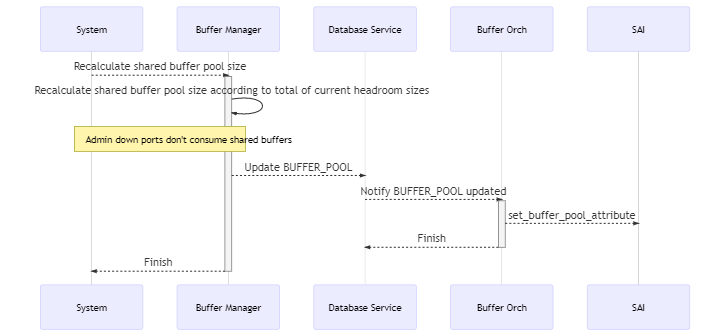
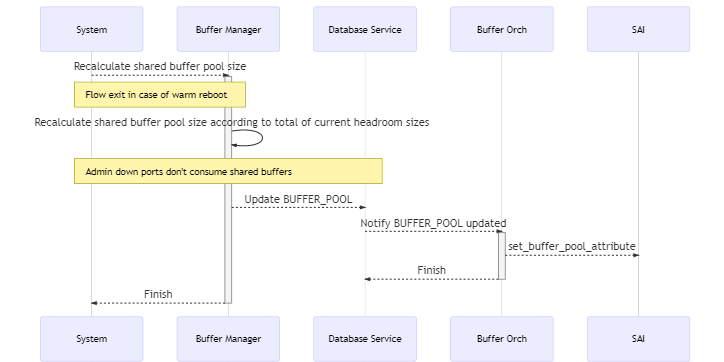
[qos]Address review comments

diff --git a/doc/qos/new-headroom-calculation.md b/doc/qos/new-headroom-calculation.md
@@ -97,36 +97,75 @@ The key can be the chip/vendor name in captical letters.
 
 ##### Initialization
 
-Every vendor should provide the ASIC_TABLE on a per-SKU basis. It should be stored in `/usr/shared/sonic/device/<platfrom>/<SKU>/buffers.json.j2` on the switch.
+Every vendor should provide the ASIC_TABLE for all switch chips it supports in SONiC. It should be stored in `files/build_templates` in the [sonic-buildimage](https://github.com/azure/sonic-buildimage) repo and `/usr/shared/sonic/template/asic_config.json.j2` on the switch.
 
-When the system starts for the first time, it generates the configuration by reloading minigraph in which buffer management related tables will be initialized by `config qos reload` via rendering this template. After that the table will be loaded from config database each time system starts.
+There should be a map from SKU to switch chip in the template. When the template is being rendering, the SKU will be mapped to switch chip and the switch chip is used to choose which group of parameters in the `ASIC_TABLE` will be adopted on the switch. As a result, the `ASIC_TABLE` with a single group of parameters will be loaded into config database.
 
-When reloading minigraph, all data from this table will be cleared and then reinitialized by `config qos reload`.
+The rendering takes place on the switch when the command `config qos reload` is executed when the switch starts for the first time or `config load_minigraph` is executed.
 
-It's possible that multiple SKUs share the same switch chip thus the same set of parameters. In this case, proper vendor-specific steps should be taken to reduce redundant source files.
-
-For Mellanox, this file is only in one of all the SKUs sharing the same switch chip while all other SKUs having symbol links pointing to that file. For example, for switches based on Spectrum 1 switch chip, `buffers.json.j2` is defined in `sonic-buildimage/device/mellanox/x86_64-mlnx_msn2700-r0/` while all other SKUs based on the same chip having symbol links pointing to it.
+After that the table will be loaded from config database each time system starts.
 
 ***Example***
 
 The below is an example for Mellanox switches based on Spectrum-1 switch chip.
 
-Demostration of a way to reduce redundant source files.
+Example of pre-defined json.j2 file:
 
-```shell
-stephens@0348aa35bcb1:/sonic$ ls device/mellanox/x86_64-mlnx_msn2700-r0/ACS-MSN2700/buffers_defaults_t* -l
--rw-r--r-- 1 stephens input 3196 Feb 29 01:48 device/mellanox/x86_64-mlnx_msn2700-r0/ACS-MSN2700/buffers_defaults_t0.j2
--rw-r--r-- 1 stephens input 3196 Feb 29 01:48 device/mellanox/x86_64-mlnx_msn2700-r0/ACS-MSN2700/buffers_defaults_t1.j2
-stephens@0348aa35bcb1:/sonic$ ls device/mellanox/x86_64-mlnx_msn2410-r0/ACS-MSN2410/buffers_defaults_t* -l
-lrwxrwxrwx 1 stephens input 63 Feb 29 01:48 device/mellanox/x86_64-mlnx_msn2410-r0/ACS-MSN2410/buffers_defaults_t0.j2 -> ../../x86_64-mlnx_msn2700-r0/ACS-MSN2700/buffers_defaults_t0.j2
-lrwxrwxrwx 1 stephens input 63 Feb 29 01:48 device/mellanox/x86_64-mlnx_msn2410-r0/ACS-MSN2410/buffers_defaults_t1.j2 -> ../../x86_64-mlnx_msn2700-r0/ACS-MSN2700/buffers_defaults_t1.j2
+```json
+{% if sonic_asic_platform == 'mellanox' %}
+    {% set platform2asic = {
+            'x86_64-mlnx_lssn2700-r0':'MELLANOX-SPECTRUM'
+            'x86_64-mlnx_msn2010-r0':'MELLANOX-SPECTRUM'
+            'x86_64-mlnx_msn2100-r0':'MELLANOX-SPECTRUM'
+            'x86_64-mlnx_msn2410-r0':'MELLANOX-SPECTRUM'
+            'x86_64-mlnx_msn2700-r0':'MELLANOX-SPECTRUM'
+            'x86_64-mlnx_msn2700_simx-r0':'MELLANOX-SPECTRUM'
+            'x86_64-mlnx_msn2740-r0':'MELLANOX-SPECTRUM'
+            'x86_64-mlnx_msn3700c-r0':'MELLANOX-SPECTRUM-2'
+            'x86_64-mlnx_msn3700-r0':'MELLANOX-SPECTRUM-2'
+            'x86_64-mlnx_msn3700_simx-r0':'MELLANOX-SPECTRUM-2'
+            'x86_64-mlnx_msn3800-r0':'MELLANOX-SPECTRUM-2'
+            'x86_64-mlnx_msn4700_simx-r0':'MELLANOX-SPECTRUM-3'
+            'x86_64-mlnx_msn4700-r0':'MELLANOX-SPECTRUM-3'
+        }
+    %}
+    {% set asic_type = platform2asic[platform] %}
+    "ASIC_TABLE": {
+        {% if asic_type == 'MELLANOX-SPECTRUM' %}
+        "MELLANOX-SPECTRUM": {
+            "cell_size": "96",
+            "pipeline_latency": "18",
+            "mac_phy_delay": "0.8",
+            "peer_response_time": "3.8"
+        }
+        {% endif %}
+
+        {% if asic_type == 'MELLANOX-SPECTRUM-2' %}
+        "MELLANOX-SPECTRUM-2": {
+            "cell_size": "144",
+            "pipeline_latency": "18",
+            "mac_phy_delay": "0.8",
+            "peer_response_time": "3.8"
+        }
+        {% endif %}
+
+        {% if asic_type == 'MELLANOX-SPECTRUM-3' %}
+        "MELLANOX-SPECTRUM-3": {
+            "cell_size": "144",
+            "pipeline_latency": "18",
+            "mac_phy_delay": "0.8",
+            "peer_response_time": "3.8"
+        }
+        {% endif %}
+    }
+{% endif %}
 ```
 
-Example of pre-defined json file:
+Example of a rendered json snippet (which will be loaded into config database) on a Mellanox Spectrum switch:
 
 ```json
     "ASIC_TABLE": {
-        "MELLANOX": {
+        "MELLANOX-SPECTRUM": {
             "cell_size": "96",
             "pipeline_latency": "18",
             "mac_phy_delay": "0.8",
@@ -150,26 +189,34 @@ This table is not supposed to be updated on-the-fly.
 
 ##### Initialization
 
-Every vendor should provide the PERIPHERAL_TABLE on a per-SKU basis. It should be stored in `/usr/shared/sonic/device/<platfrom>/<SKU>/buffers.json.j2` on the switch.
+Every vendor should provide the `PERIPHERAL_TABLE` for all peripheral devices it supports in SONiC, like gearbox models. It should be stored in `files/build_templates/peripheral_config.json.j2` in the [sonic-buildimage](https://github.com/azure/sonic-buildimage) repo and `/usr/shared/sonic/template/peripheral_config.json.j2` on the switch.
 
-It's possible that multiple SKUs share the same model of gearbox. In this case similar steps as that for ASIC_TABLE should be taken to reduce redundant source files.
+When the template is being rendering, all entries in `PERIPHERAL_TABLE` will be loaded into the configuration database.
 
-Basically the initialization of PERIPHERAL table is the same as that of ASIC_TABLE except that it's possible a same SKU adopts variant models of gearbox in variant batch of products. In this case, parameters for all possible gearbox models should be listed in the `buffers.json.j2` file and we suggest to find out the correct gearbox_delay in the following way:
+For non-chassis systems, the gearbox model should be determined by the SKU, which is the same as that of `ASIC_TABLE`. As a result, the initialization of `PERIPHERAL_TABLE` is the same as that of `ASIC_TABLE`.
 
-1. The gearbox model equipped in the switch should be exposed and able to be read via sysfs or something like that.
-2. When the system starts for the first time or executed `config load_minigraph` or `config qos reload`, it should read the gearbox model in the way mentioned in 1. and then load the data into config database.
-3. For the other cases when system starts, it loads the data from `CONFIG_DB`.
+For chassis systems the gearbox in variant line-cards can differ, which means a mapping from port/line-card to gearbox model is required to get the correct gearbox model for a port. This requires additional field defined in `PORT` table or some newly introduced table. As this part hasn't been defined in community, we will not discuss this case for now.
 
 The below is an example for Mellanox switches.
 
 ***Example***
 
 ```json
+{% if sonic_asic_platform == 'mellanox' %}
+    {% set platform_with_gearbox = ['x86_64-mlnx_msn3800-r0'] %}
+    {% set platform2gearbox = {
+            'x86_64-mlnx_msn3800-r0':'MELLANOX-PERIPHERAL-1'
+        }
+    %}
+    {% if platform in platform_with_gearbox %}
+    {% set gearbox_type = platform2gearbox[platform] %}
     "PERIPHERAL_TABLE": {
-        "MELLANOX": {
+        "MELLANOX-PERIPHERAL-1": {
             "gearbox_delay": "9.765"
         }
     }
+    {% endif %}
+{% endif %}
 ```
 
 #### Table ROCE_TABLE
@@ -343,10 +390,10 @@ The values used in the above procedure are fetched from the following table:
 
 - `cable length`: CABLE_LENGTH|\<name\>|\<port\>
 - `port speed`: PORT|\<port name\>|speed
-- `kb on gearbox`: PERIPHERIAL_TABLE|\<vendor name\>|other_delay
-- `mac/phy delay`: ASIC_TABLE|\<vendor name\>|mac_phy_delay
-- `peer response`: ASIC_TABLE|\<vendor name\>|peer_response_time
-- `cell`: ASIC_TABLE|\<vendor name\>|cell_size
+- `kb on gearbox`: PERIPHERIAL_TABLE|\<gearbox name\>|other_delay
+- `mac/phy delay`: ASIC_TABLE|\<asic name\>|mac_phy_delay
+- `peer response`: ASIC_TABLE|\<asic name\>|peer_response_time
+- `cell`: ASIC_TABLE|\<asic name\>|cell_size
 - `small packet percentage`: ROCE_TABLE|\<name\>|small_packet_percentage
 - `mtu`: ROCE_TABLE|\<name\>|mtu
 
@@ -366,6 +413,8 @@ __Figure 1: Allocate a New Profile__
 
 #### Release a no-longer-referenced profile
 
+This is for dynamic profile only. Static profile won't be removed even it isn't referenced any more.
+
 When a port's `cable length` or `speed` updated, the profile related to the old `cable length` or `speed` tuple probably won't be referenced any longer. In this case, the profile should be removed.
 
 ![Flow](headroom-calculation-images/release-profile.png "Figure 1: Release a No-Longer-Referenced Profile")
@@ -377,6 +426,10 @@ __Figure 1: Release a No-Longer-Referenced Profile__
 When any port's `cable length` or `speed` updated or `admin state` changed, the buffer pool size should be recalculated.
 
 Each time the buffer pool size recalculated, it should go over headroom of all `port`, `priority group` tuple to calculate the total consumption of shared buffers. The administratively down port doesn't consume buffer hense they should be ruled out.
+
+An exception is warm reboot. During warm reboot the headroom is updated for each ports, which causes the buffer pool be updated for many times. However, the correct buffer pool data that it will eventually be has already been in switch chip. In this sense, to update buffer pool frequently is unnecessary and should be avoided.
+
+To achieve that, the buffer pool shouldn't be updated during warm reboot and will be updated once warm reboot finished.
 
 ![Flow](headroom-calculation-images/calculate-pool-size.png "Figure 1: Calculate the Pool Size")
 
@@ -397,17 +450,6 @@ When any port's `cable length` or `speed` updated, the headroom buffer should be
 __Figure 1: Calculate the Headroom For a Port, PG__
 
 ### Main Flows
-
-#### System starts
-
-Try the following steps in order:
-
-1. Load the table `ASIC_TABLE`, `PERIPHERAL_TABLE` and `ROCE_TABLE` into internal data structures:
-    - If succeeded, set `calculate` flag. Finish.
-    - Otherwise, try 2.
-2. If failed, load the traditional pg_profile_lookup.ini into a lookup table.
-    - If succeeded, set `lookup` flag.
-    - Otherwise, fail the daemon.
 
 #### Port Speed updated
 
@@ -473,26 +515,46 @@ When a static buffer profile is updated, it will be propagated to `Buffer Orch` 
 
 ![Flow](headroom-calculation-images/static-profile-updated.png "Figure 1: Static Buffer Profile Updated")
 
-### Upgrade flows
+### Start and upgrade flows
 
-In this section we will discuss the flows of upgrading the switch from current implementation to the new one by:
+In this section we will discuss the start flow and the flows of upgrading the switch from current implementation to the new one by:
 
 - Cold reboot
 - Warm reboot
 
-#### Cold reboot
+#### Upgrade by cold reboot
 
-When system cold reboot from current implementation to new one, `db_migrator` will take care of new table generating.
+When system cold reboot from current implementation to new one, `db_migrator` will take care of generating new table and converting old data.
+
+1. Initialize `ASIC_TABLE`, `PERIPHERAL_TABLE` and `ROCE_TABLE` from predefined templates into config database, just like what is done when the system starts for the first time or `config load_minigraph`
+2. Convert the current data in `BUFFER_PROFILE` and `BUFFER_PG` into new format with `type` inserted via the following logic:
+
+    - If a `BUFFER_PROFILE` has name convention of `pg_lossless_<speed>_<length>_profile`, it will be treated as a dynamically generated profile based on the port's speed and cable length. In this case its `type` will be initialized as `dynamic`.
+    - If a `BUFFER_PG` references a profile whose type is `dynamic`, it will be also treated as a dynamic buffer pg object and its `type` will be initialized as `dynamic`.
+    - If a `BUFFER_PROFILE` or `BUFFER_PG` item doesn't meet any of the above conditions, it will be treated as a `static` profile.
+
+After that, `Buffer Manager` will start as normal flow which will be described in the next section.
+
+#### Daemon starts with -c option
+
+When the daemon starts, it will:
+
+1. Test the command line options. If `-c` option is provided, the class for new buffer calculation will be instantiated. Otherwise it should be the current approach of calculating headroom buffers, which is out of the scope of this design.
+2. Load table `ASIC_TABLE`, `PERIPHERAL_TABLE` and `ROCE_TABLE` from `CONFIG_DB` into internal data structures.
+3. Load table `CABLE_LENGTH` and `PORT` from `CONFIG_DB` into internal data structures.
+4. After that it will handle items in `CALBLE_LENGTH` and `PORT` tables via calculating the headroom size for the ports and then pushing result into `BUFFER_PROFILE` and `BUFFER_PG` tables except the `port` and `priority group` tuples configured headroom override.
+
+`BUFFER_PROFILE` and `BUFFER_PG` are tables in `CONFIG_DB` which survives reboot, which means the result calculated by previous boot is already in `CONFIG_DB`. By doing so the buffer profile for each `port` and `priority group` won't be changed across reboot.
 
 #### Warm reboot
 
-When system starts, the port's headroom will always be recalculated according to its speed and cable length. As a result, when system warm restarts between images whose headroom size differs, the `Buffer Manager` won't read data from `BUFFER_PG` table but regenerate one for each `port`, `priority group` according to the port's `speed` and `cable length` and then push the item into `BUFFER_PG` table.
+When system starts, the port's headroom will always be recalculated according to its speed and cable length. As a result, when system warm restarts between images who calculate headroom size in different ways, the `Buffer Manager` will eventually regenerate items for each `port`, `priority group` according to the ports' `speed` and `cable length` and then push the item into `BUFFER_PG` table.
 
 During the warm reboot the static configuration like ports' `speed` and `cable length` are not supposed to be changed, which means the data in `BUFFER_PG` and `BUFFER_PROFILE` are not changed before and after warm reboot.
 
 In this sense, no specific steps is required regarding configuration migration for the above tables.
 
-For table `BUFFER_POOL` things will differ. Each time the headroom size updated the buffer pool size should be updated accordingly. When the system warm reboots, the headroom size of each port will be updated in order, which means the buffer pool size will be updated for many times, which should be avoided as the correct value has already been in the switch chip.
+For table `BUFFER_POOL` things will differ. Each time the headroom size updated the buffer pool size should be updated accordingly. When the system warm reboots, the headroom size of each port will be updated as well, which means the buffer pool size will be updated for many times even though the value they eventually should be have already been in the switch chip. This should be avoided as the correct value has already been in the switch chip.
 
 This can be achieved by checking whether the warm reboot is finished ahead of calling SAI api.
 
@@ -507,7 +569,6 @@ sonic#config interface headroom_override <port> <enable|disable> <profile>
 The following conditions among parameters must be satisfied:
 
 - The profile must be defined in advance.
-- 
 
 ### To configure a static profile
 
@@ -518,11 +579,12 @@ sonic#config buffer_profile <name> add <xon> <xoff> <headroom> <dynamic_th>
 sonic#config buffer_profile <name> del
 ```
 
-Among all the parameters, `xoff` is optional and all others are mandatory.
+Among all the parameters, for `xoff` and `headroom`, if one is provided, the other one will be optional and conducted via the formula `xon + xoff = headroom`.
+All other parameters are mandatory.
 The following conditions among parameters must be satisfied:
 
 - `xon` + `xoff` < `headroom`; For Mellanox platform xon + xoff == headroom
-- When delete a profile, its `type` must be static.
+- When delete a profile, its `type` must be static and isn't referenced by any port
 
 ## Open questions
 
@@ -534,49 +596,27 @@ The following conditions among parameters must be satisfied:
         - If yes, need to maintain a reference number for the profiles, which introduces unnecessary complexity.
 
     Status: Closed.
+
     Decision: We're going to support arbitrary cable length.
 2. After port cable length updated, should the BUFFER_PG table be updated as well?
     - Current implementation don't do that. Why?
 
     Status: Closed.
+
     Decision: Yes. After port cable length pudated the BUFFER_PG table should be updated accordingly.
 3. With headroom size dynamically configured, is it necessary to recalculate the buffer pool size?
     - For the egress_lossy_pool, ingress_lossless_pool and ingress_lossy pool their size is the total size minus the total of headroom of all ports.
 4. Lossless is supported on priority 3-4 only. Is this by design or standard or any historical reason?
-5. Can shared buffer pool be updated on-the-fly?
-
-```syslog
-Mar 22 14:29:05.991084 mtbc-sonic-01-2410 ERR swss#orchagent: :- meta_generic_validation_set: SAI_BUFFER_POOL_ATTR_TYPE:SAI_ATTR_VALUE_TYPE_INT32 attr is create only and cannot be modified
-Mar 22 14:29:05.991153 mtbc-sonic-01-2410 ERR swss#orchagent: :- processBufferPool: Failed to modify buffer pool, name:ingress_lossless_pool, sai object:180000000009af, status:-5
-```
-
+5. Can shared buffer pool be updated on-the-fly? Can buffer profile be updated on-the-fly? Only the dynamic_th.
+    
+    Status: Open.
+    
+    Decision: Should be. But there is issues in SONiC ["dynamic_th" parameter for lossless buffer profile can't be change on the fly.](https://github.com/Azure/sonic-buildimage/issues/3971)
 6. There are default headrooms for lossy traffic which are determined by SDK and SONiC isn't aware. Do they affect shared buffer calculation?
 7. There is limitations from SDK/FW that there is a cap of the total number of headroom sizes of all priority groups belong to a port. For 2700 split port, this cap prevent the headroom size from being programed if the speed is 50G and cable length is 300m.
 8. Originally buffer configuration had been stored in APPL_DB but were moved to CONFIG_DB later. Why? [doc](https://github.com/Azure/SONiC/wiki/Converting-old-or-creating-new-buffers-config) for reference.
-9. Can buffer profile be updated on-the-fly? Only the dynamic_th.
-
-### Database design principles -- CONFIG_DB vs APPL_DB
-
-In the current solution all buffer relavent tables are stored in CONFIG_DB which is supposed to contain the configuration supplied by user. However, some buffer data, including some entries in the BUFFER_PROFILE table and all entries in the BUFFER_PG table, are dynamically generated when ports' speed or cable length updated and will be cleared during `config qos reload`, which means they are not real configuration.
-
-To have dynamic entries in CONFIG_DB is confusing. But a user is able to distinguish dynamic one from static one easily considering the following two points:
-
-1. There are only limit number of combinations of speed, cable length pair, the number of dynamically generated entries in BUFFER_PROFILE table is small.
-2. All entries in BUFFER_PG table are dynamically generated.
-
-In this sense, to have dynamic and static entries mixed together mixed together isn't a big problem for now.
-
-However, in this design the above 2 points will no longer be true because:
-
-1. The variant cable length will be supported, which means the number of dynamically generated entries in BUFFER_PROFILE table which related to cable length can be much larger.
-2. There is going to be headroom override which means BUFFER_PG and BUFFER_PROFILE table will contain both dynamic and static entries.
-
-These will confuse user, making them difficult to distinguish static and dynamic entries and understand the configuration. In addition, this makes the logic of `config qos reload` more complicated, because it has to remain user supplied configuration while clearing all the dynamic entries.
-
-To resolve the issue, we have the following principles in the database schema design:
-
-1. All the configuration are stored in CONFIG_DB, including BUFFER_PG, BUFFER_POOL and BUFFER_PROFILE tables.
-2. Dynamically generated tables are stored in APPL_DB.
+9. In theory, when system starts, as `BUFFER_PROFILE` and `BUFFER_PG` tables are stored in config database which survives system reboot, the `Buffer Orch` can receive items of the tables ahead of they being recalculated by `Buffer Manager` based on the current algorithm and `cable length` and `speed`. If the headroom size calculated differs before and after reboot, it can cause the items in the tables be deployed twice in which the first deployment will be overwritten quickly by the second one.
+10. For chassis systems the gearbox in variant line-cards can differ, which means a mapping from port/line-card to gearbox model is required to get the correct gearbox model for a port. This requires additional field defined in `PORT` table or some newly introduced table. As this part hasn't been defined in community, we will not discuss this case for now.
 
 ### Review Comments Fixed
 

diff --git a/doc/qos/config-db-vs-appl-db.md b/doc/qos/config-db-vs-appl-db.md
@@ -1,0 +1,23 @@
+### Database design principles -- CONFIG_DB vs APPL_DB
+
+In the current solution all buffer relavent tables are stored in CONFIG_DB which is supposed to contain the configuration supplied by user. However, some buffer data, including some entries in the BUFFER_PROFILE table and all entries in the BUFFER_PG table, are dynamically generated when ports' speed or cable length updated and will be cleared during `config qos reload`, which means they are not real configuration.
+
+To have dynamic entries in CONFIG_DB is confusing. But a user is able to distinguish dynamic one from static one easily considering the following two points:
+
+1. There are only limit number of combinations of speed, cable length pair, the number of dynamically generated entries in BUFFER_PROFILE table is small.
+2. All entries in BUFFER_PG table are dynamically generated.
+
+In this sense, to have dynamic and static entries mixed together mixed together isn't a big problem for now.
+
+However, in this design the above 2 points will no longer be true because:
+
+1. The variant cable length will be supported, which means the number of dynamically generated entries in BUFFER_PROFILE table which related to cable length can be much larger.
+2. There is going to be headroom override which means BUFFER_PG and BUFFER_PROFILE table will contain both dynamic and static entries.
+
+These will confuse user, making them difficult to distinguish static and dynamic entries and understand the configuration. In addition, this makes the logic of `config qos reload` more complicated, because it has to remain user supplied configuration while clearing all the dynamic entries.
+
+To resolve the issue, we have the following principles in the database schema design:
+
+1. All the configuration are stored in CONFIG_DB, including BUFFER_PG, BUFFER_POOL and BUFFER_PROFILE tables.
+2. Dynamically generated tables are stored in APPL_DB.
+
